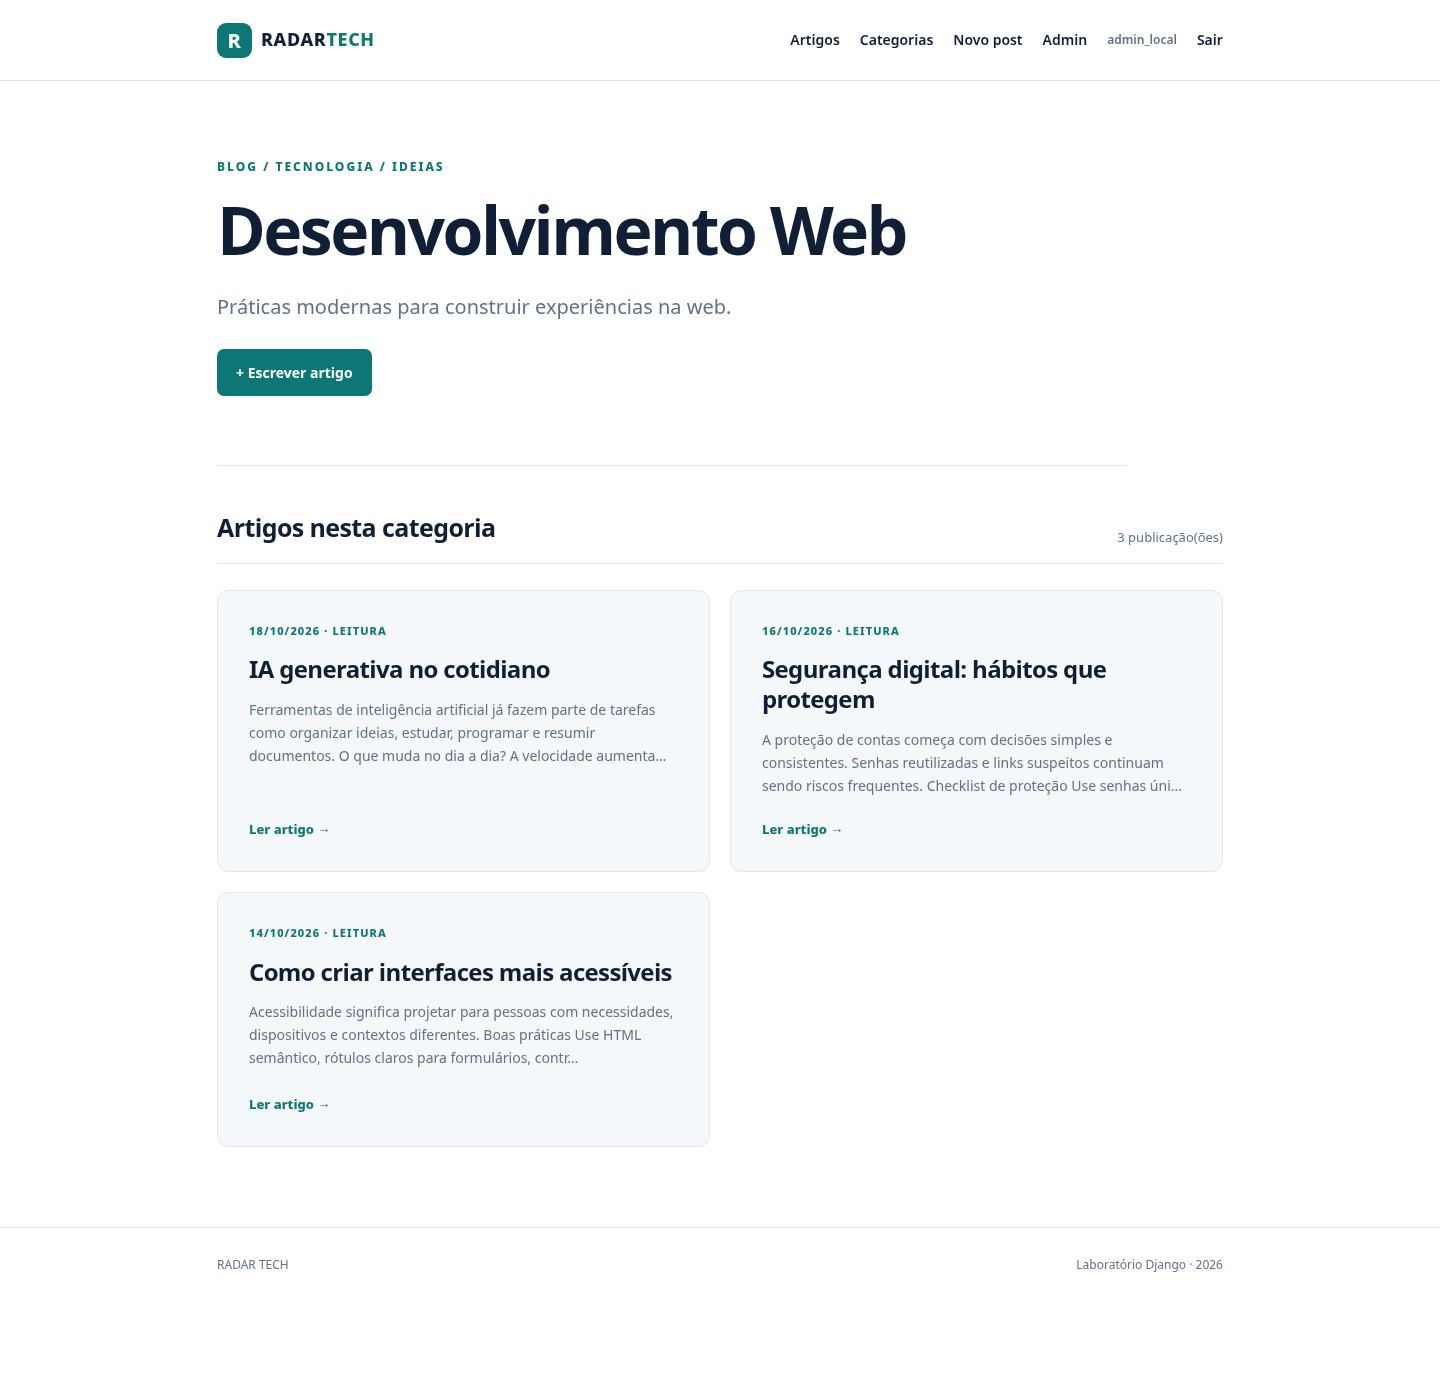
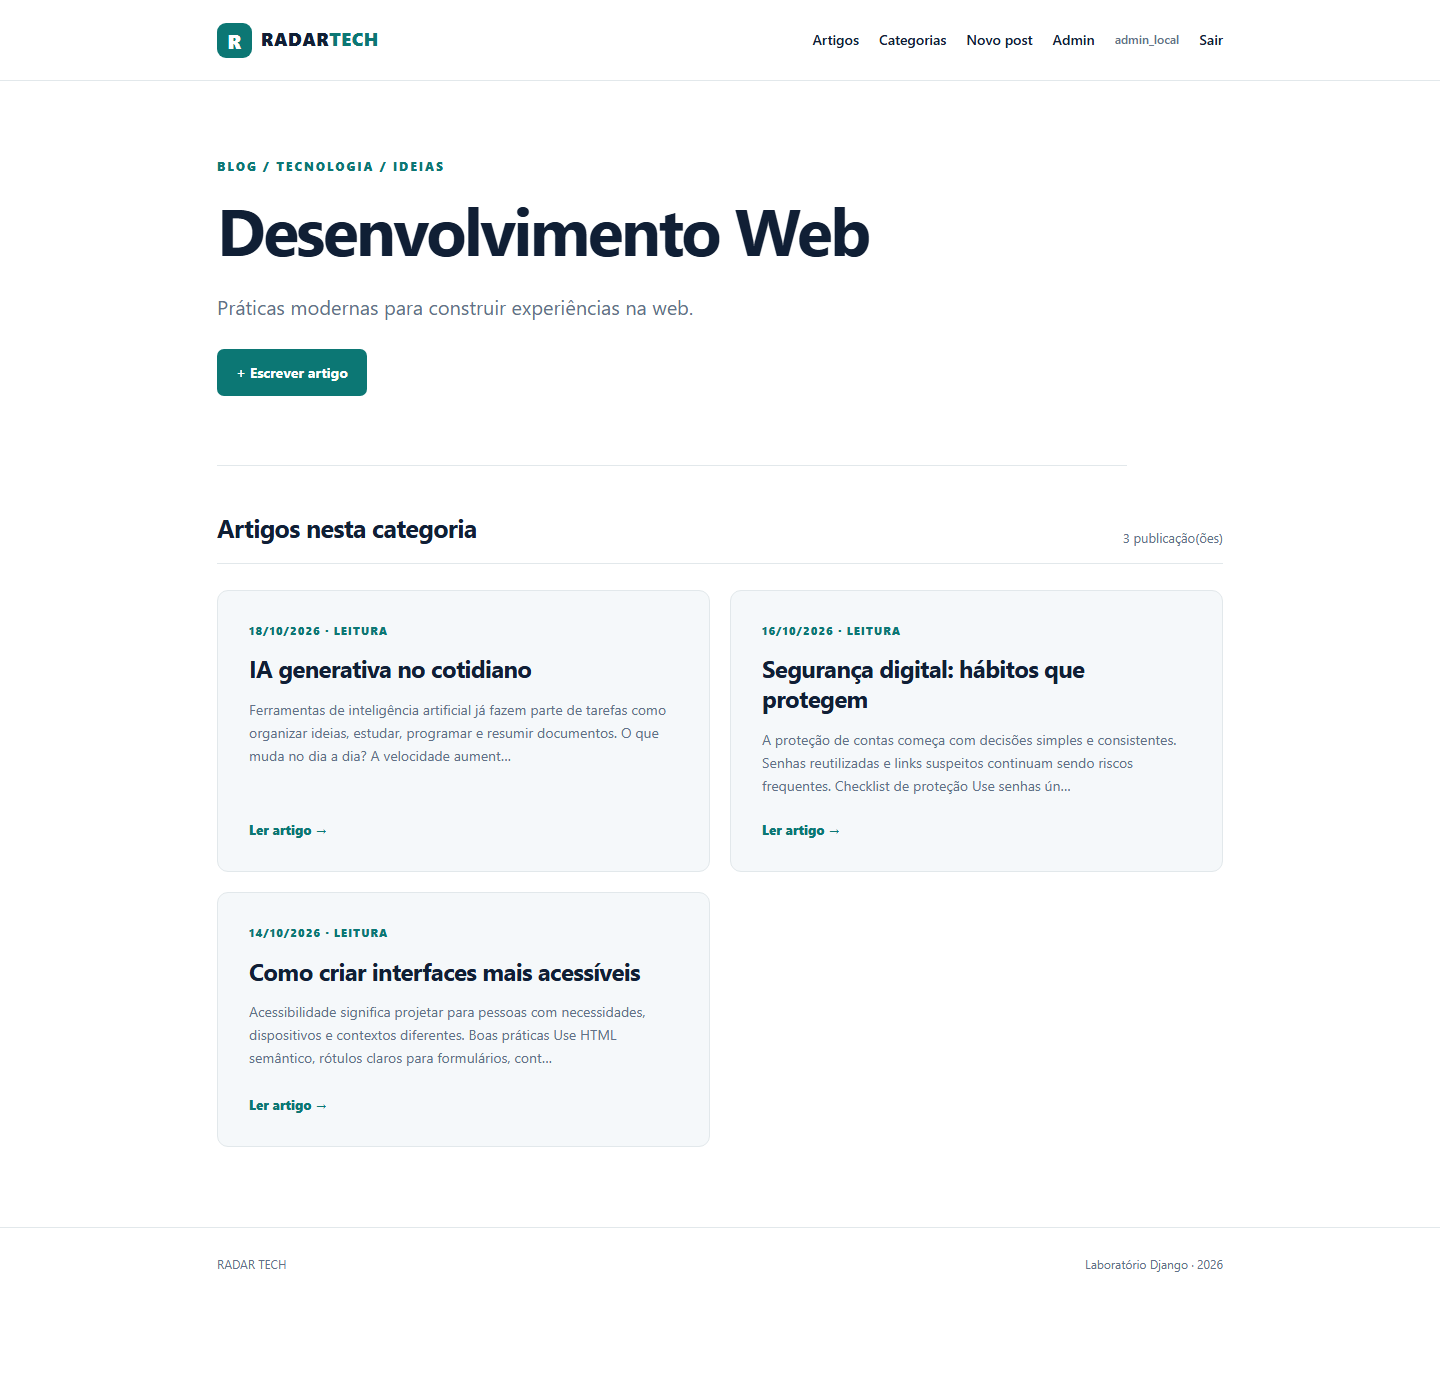
Documentar testes aprovados e substituir previas pelas capturas Django

diff --git a/tools/gerar_relatorio.py b/tools/gerar_relatorio.py
@@ -54,7 +54,7 @@ def make(github_url="",render_url="",output=OUTPUT):
         urls+=f'<p><strong>Página no Render:</strong> <a href="{esc(render_url)}">{esc(render_url)}</a></p>'
     else:
         urls+='<p><strong>Render:</strong> publicação ainda pendente. Inserir o URL nos comentários da entrega no Moodle, como autoriza o enunciado.</p>'
-    observations='''<div class="note warn"><strong>Validação pendente:</strong> o ambiente utilizado para produzir este relatório não pôde instalar Django. As imagens das interfaces exibidas nesta versão são pré-visualizações estáticas derivadas dos próprios templates e dos dados SQLite. Não devem ser apresentadas como evidência de execução das views. Para finalizar a validação, instalar as dependências em um ambiente com internet, executar <code>python manage.py test</code> e <code>python tools/capturar_telas.py --django</code>, e regenerar o relatório ou fornecer as novas imagens para substituição.</div>''' if preview else '''<div class="note success"><strong>Evidências de interface:</strong> capturas geradas a partir do HTML fornecido pelas views reais do Django por meio do test client autenticado, renderizado em Chrome/Chromium. Os resultados SQL foram executados em SQLite.</div>'''
+    observations='''<div class="note warn"><strong>Validação pendente:</strong> o ambiente utilizado para produzir este relatório não pôde instalar Django. As imagens das interfaces exibidas nesta versão são pré-visualizações estáticas derivadas dos próprios templates e dos dados SQLite. Não devem ser apresentadas como evidência de execução das views. Para finalizar a validação, instalar as dependências em um ambiente com internet, executar <code>python manage.py test</code> e <code>python tools/capturar_telas.py --django</code>, e regenerar o relatório ou fornecer as novas imagens para substituição.</div>''' if preview else '''<div class="note success"><strong>Validação concluída no Windows:</strong> 7 testes automatizados Django executados e aprovados (7/7), sem falhas; as 9 páginas capturadas retornaram HTTP 200. As imagens foram geradas a partir do HTML produzido pelas views reais do Django, solicitado pelo test client autenticado e renderizado em Chrome/Chromium. As cinco consultas SQL foram executadas no SQLite, com resultados reproduzidos nas evidências.</div>'''
     html_body=f'''<!doctype html><html lang="pt-br"><head><meta charset="utf-8">
 <style>
 @page {{ size:A4; margin:18mm 18mm 19mm 18mm; @top-right {{content:"RADAR TECH  /  LABORATÓRIO DJANGO";font-family:'DejaVu Sans',Arial,sans-serif;font-size:8pt;color:#6d7d8a;}} @bottom-left {{content:"Segunda Entrega de Laboratório";font-family:'DejaVu Sans',Arial,sans-serif;font-size:8pt;color:#728091;}} @bottom-right {{content:counter(page);font-family:'DejaVu Sans',Arial,sans-serif;font-size:8pt;color:#728091;}} }}
@@ -103,9 +103,9 @@ a{{color:#0a7670;word-break:break-word}}.cover{{height:244mm;padding:30mm 2mm 20
 <div class="section-break"></div><h3>4.4. Parte 4 &mdash; Consultas SQL</h3>
 <p>O arquivo <code>db.sqlite3</code> foi preenchido com três posts, três categorias e quatro comentários. Dois posts possuem duas categorias cada; o terceiro não possui comentários. Cada um dos dois posts comentados apresenta dois comentários. Todos os posts pertencem a pelo menos uma categoria.</p>
 <table class="stats"><thead><tr><th>Elemento</th><th>Quantidade</th><th>Condição atendida</th></tr></thead><tbody><tr><td>Posts</td><td>3</td><td>1 post sem comentários</td></tr><tr><td>Comentários</td><td>4</td><td>2 comentários por post comentado</td></tr><tr><td>Categorias</td><td>3</td><td>2 posts com múltiplas categorias</td></tr><tr><td>Associações post-categoria</td><td>5</td><td>Todos os posts categorizados</td></tr><tr><td>Usuários</td><td>3</td><td>2 demonstrativos e 1 superusuário local</td></tr></tbody></table>
-<p>As cinco consultas foram executadas diretamente no SQLite e seus resultados registrados em capturas. A terceira consulta seleciona todas as colunas do comentário exceto <code>post_id</code> e inclui <code>title</code> e <code>post_date</code>. A quarta retorna todas as colunas de ambas as tabelas relacionadas; a quinta aplica <code>GROUP BY</code> e <code>HAVING</code>.</p>
+<p>As cinco consultas foram executadas diretamente no SQLite, e os resultados foram renderizados em capturas de uma interface de consulta criada para documentar esta entrega. As evidências exibem o SQL efetivamente executado e as linhas retornadas pelo banco.</p><p>A terceira consulta seleciona todas as colunas do comentário exceto <code>post_id</code> e inclui <code>title</code> e <code>post_date</code>. A quarta retorna todas as colunas de ambas as tabelas relacionadas; a quinta aplica <code>GROUP BY</code> e <code>HAVING</code>.</p>
 {sql_html}
-<div class="spacer"></div><h3>Síntese da entrega</h3><p>O código-fonte e o histórico Git estão reunidos no repositório local do projeto; o SQLite com os dados exigidos é disponibilizado separadamente para submissão ao Moodle. As consultas SQL foram validadas em banco íntegro. A comprovação de funcionamento das views Django e a publicação pública devem ser confirmadas antes do envio definitivo.</p>
+<div class="spacer"></div><h3>Síntese da entrega</h3><p>O código-fonte e o histórico Git estão reunidos no repositório local do projeto; o SQLite com os dados exigidos é disponibilizado separadamente para submissão ao Moodle. As consultas SQL foram validadas em banco íntegro. Os sete testes automatizados passaram, e as nove páginas documentadas responderam HTTP 200 no cliente de testes autenticado do Django. Restam apenas a publicação pública no GitHub e no Render e o registro dos respectivos links no relatório ou nos comentários do Moodle, conforme autorizado no enunciado.</p>
 </body></html>'''
     output=Path(output)
     output.parent.mkdir(parents=True, exist_ok=True)

diff --git a/README.md b/README.md
@@ -87,6 +87,6 @@ Após a primeira execução no Windows, foram corrigidas duas falhas identificad
 
 O ZIP de distribuição inclui `db.sqlite3` como arquivo **não rastreado no Git**. Em Windows, basta extrair o ZIP e executar `INICIAR_AQUI_WINDOWS.bat` para instalar dependências em `.venv`, aplicar migrações, executar os testes, gerar capturas reais das páginas com o Chrome/Chromium e criar o pacote `CAPTURAS_PARA_RELATORIO.zip` para enviar aqui. Linux/macOS: execute `bash INICIAR_AQUI_LINUX_MAC.sh`.
 
-Se Chrome não estiver disponível para gerar capturas, os comandos `python manage.py check`, `python manage.py migrate` e `python manage.py test` ainda permitem verificar o código. O relatório atual identifica as imagens de pré-visualização como prévias estáticas até que as capturas reais sejam produzidas.
+Se Chrome não estiver disponível para gerar capturas, os comandos `python manage.py check`, `python manage.py migrate` e `python manage.py test` ainda permitem verificar o código. A validação no Windows foi concluída com 7 testes aprovados; foram obtidas 9 capturas de páginas Django com HTTP 200 e 5 capturas das consultas SQL. O relatório foi atualizado com as capturas recebidas.
 
 O gerador opcional de relatório, `tools/gerar_relatorio.py`, usa WeasyPrint. Caso essa dependência não esteja disponível em sua máquina, compartilhe as capturas reais para atualização externa do PDF, sem precisar editar o documento manualmente.
